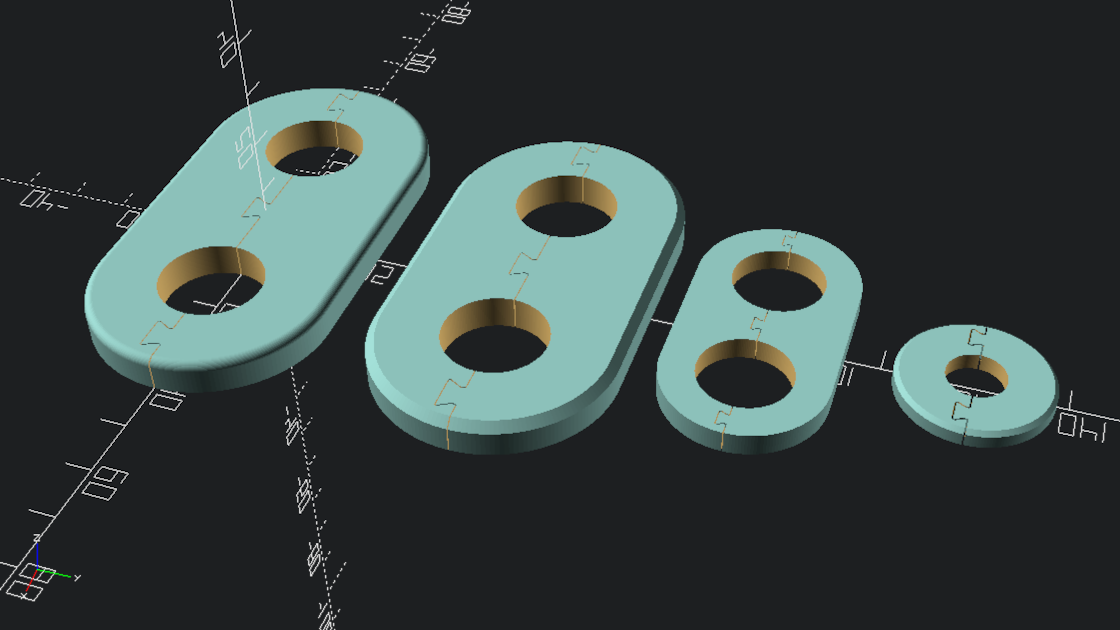
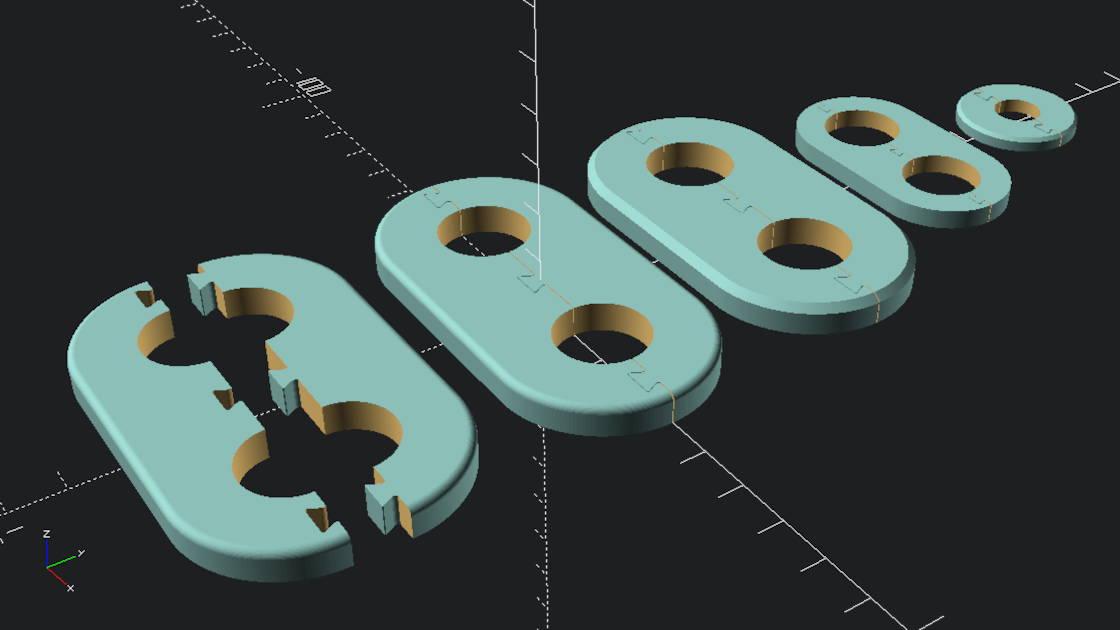
Added 'parts' parameter to escutcheon.scad file

diff --git a/escutcheon/escutcheon_demo.md b/escutcheon/escutcheon_demo.md
@@ -4,7 +4,7 @@ The file [escutcheon.scad](escutcheon.scad) can be used as an [OpenSCAD](http://
 
 ## Usage
 
-The module `escutcheon()` takes up to 7 parameters:
+The module `escutcheon()` takes up to 8 parameters:
 
 1. escutcheon_height (h) = [numerical]
 2. escutcheon_width (w) = [numerical]
@@ -13,14 +13,17 @@ The module `escutcheon()` takes up to 7 parameters:
 5. edge (e) = [string with one of the following values: "chamfer", "filet" or "none"]
 6. nozzle_width (nw) = [numerical]
 7. printer_tolerance (pt) = [numerical]
+8. parts (p) = [string with one of the following values: "both", "male" or "female"]
 
 ![Parametric escutcheon usage](images/escutcheon_usage.png)
 
 ## Demo
 
 ```scad
+translate([0, -60, 0]) escutcheon(p="female");
+translate([0, -50, 0]) escutcheon(p="male");
 escutcheon();
-translate([0, 50, 0]) escutcheon(s=36, e="chamfer");
+translate([0, 48, 0]) escutcheon(s=36, e="chamfer");
 translate([0, 90, 0]) escutcheon(h=4, w=6, d=16, s=24, e="none", nw=0.2, pt=0.2);
 translate([0, 125, 0]) escutcheon(h=3, w=8, d=10, s=0, e="chamfer", nw=0.6, pt=0.3);
 ```
